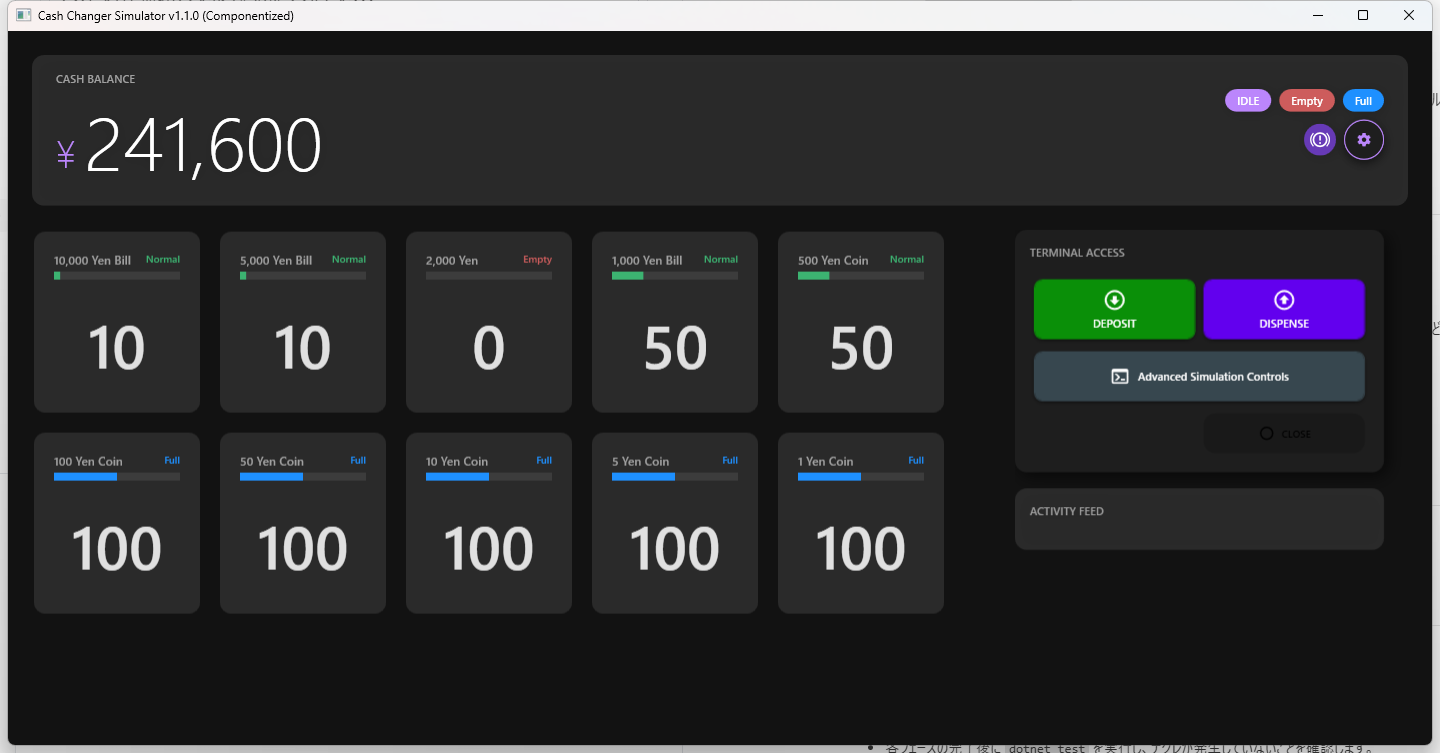
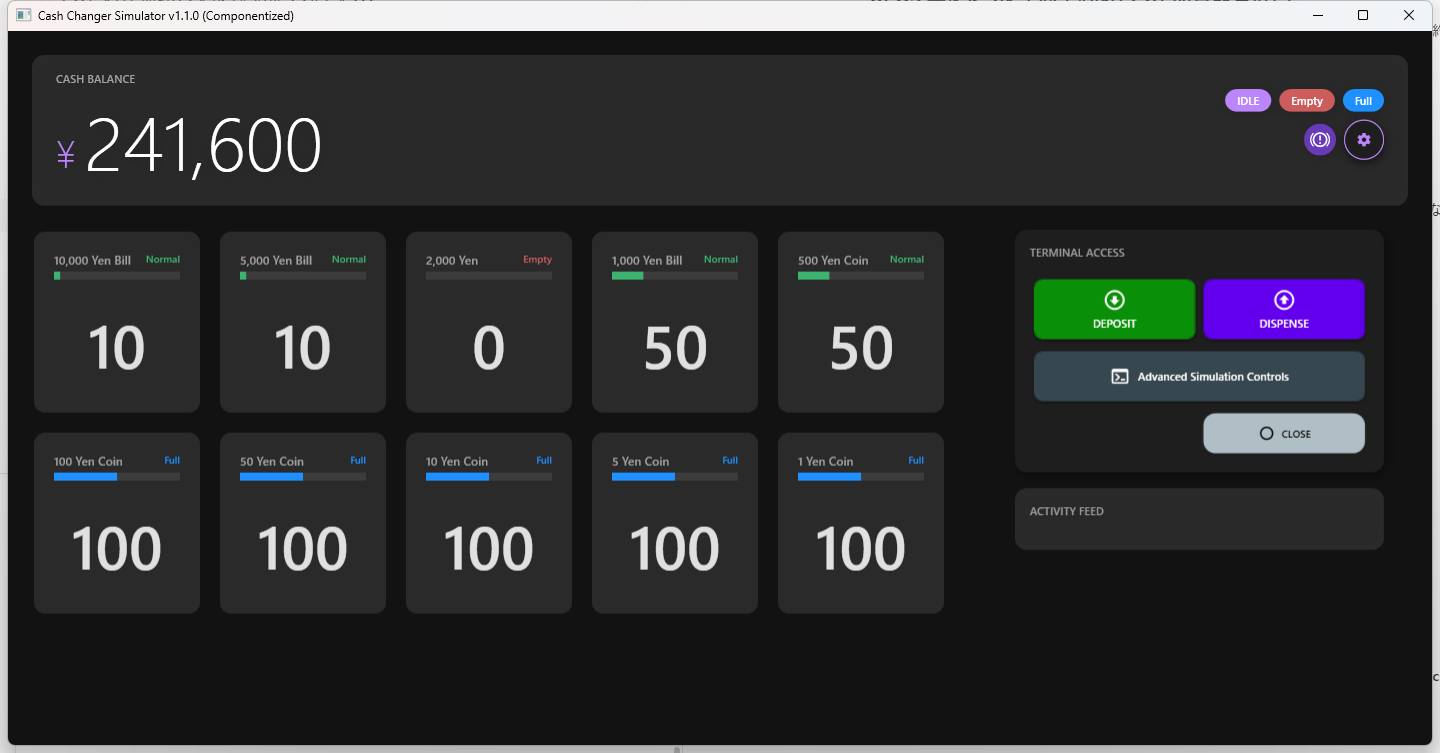
refactor(ui-tests): migrate UI tests to Shouldly and update documentation assets
- Replace Assert with Shouldly in UI test specifications

- Add missing XML documentation to UI testing classes

- Update main dashboard UI screenshot generated by tests

Changed region(s): [[0.8125, 0.5498, 0.9688, 0.6109], [0.625, 0.9774, 0.9375, 1.0]]

diff --git a/test/CashChangerSimulator.UI.Tests/DepositModeViewModelTest.cs b/test/CashChangerSimulator.UI.Tests/DepositModeViewModelTest.cs
@@ -9,6 +9,7 @@ using CashChangerSimulator.UI.Wpf.ViewModels;
 using Microsoft.PointOfService;
 using Moq;
 using R3;
+using Shouldly;
 
 namespace CashChangerSimulator.UI.Tests;
 
@@ -79,19 +80,19 @@ public class DepositModeViewModelTest
         _depositController.BeginDeposit();
 
         // Assert: Running
-        Assert.True(denVm.IsAcceptingCash.CurrentValue);
+        denVm.IsAcceptingCash.CurrentValue.ShouldBeTrue();
 
         // Act: Pause
         _depositController.PauseDeposit(CashDepositPause.Pause);
 
         // Assert: Paused
-        Assert.False(denVm.IsAcceptingCash.CurrentValue);
+        denVm.IsAcceptingCash.CurrentValue.ShouldBeFalse();
 
         // Act: Resume
         _depositController.PauseDeposit(CashDepositPause.Restart);
 
         // Assert: Running again
-        Assert.True(denVm.IsAcceptingCash.CurrentValue);
+        denVm.IsAcceptingCash.CurrentValue.ShouldBeTrue();
     }
 
     /// <summary>MainViewModel の CurrentModeName が状態遷移を正しく反映することを検証します。</summary>
@@ -102,26 +103,26 @@ public class DepositModeViewModelTest
     public void MainViewModelCurrentModeNameShouldReflectTransitions()
     {
         // Initial
-        Assert.Contains("IDLE", _mainViewModel.Deposit.CurrentModeName.CurrentValue);
+        _mainViewModel.Deposit.CurrentModeName.CurrentValue.ShouldContain("IDLE");
 
         // Start
         _depositController.BeginDeposit();
-        Assert.Contains("COUNTING", _mainViewModel.Deposit.CurrentModeName.CurrentValue);
+        _mainViewModel.Deposit.CurrentModeName.CurrentValue.ShouldContain("COUNTING");
 
         // Pause
         _mainViewModel.Deposit.PauseDepositCommand.Execute(Unit.Default);
-        Assert.Contains("PAUSED", _mainViewModel.Deposit.CurrentModeName.CurrentValue);
+        _mainViewModel.Deposit.CurrentModeName.CurrentValue.ShouldContain("PAUSED");
 
         // Resume
         _mainViewModel.Deposit.ResumeDepositCommand.Execute(Unit.Default);
-        Assert.Contains("COUNTING", _mainViewModel.Deposit.CurrentModeName.CurrentValue);
+        _mainViewModel.Deposit.CurrentModeName.CurrentValue.ShouldContain("COUNTING");
 
         // Fix
         _mainViewModel.Deposit.FixDepositCommand.Execute(Unit.Default);
-        Assert.Contains("FIXED", _mainViewModel.Deposit.CurrentModeName.CurrentValue);
+        _mainViewModel.Deposit.CurrentModeName.CurrentValue.ShouldContain("FIXED");
 
         // End
         _mainViewModel.Deposit.StoreDepositCommand.Execute(Unit.Default);
-        Assert.Contains("IDLE", _mainViewModel.Deposit.CurrentModeName.CurrentValue);
+        _mainViewModel.Deposit.CurrentModeName.CurrentValue.ShouldContain("IDLE");
     }
 }

diff --git a/test/CashChangerSimulator.UI.Tests/Specs/SmokeTest.cs b/test/CashChangerSimulator.UI.Tests/Specs/SmokeTest.cs
@@ -1,3 +1,5 @@
+using Shouldly;
+
 namespace CashChangerSimulator.UI.Tests.Specs;
 
 /// <summary>アプリケーションの起動と基本表示を検証するスモークテスト。</summary>
@@ -17,8 +19,8 @@ public class SmokeTest : IDisposable
     public void ShouldHaveCorrectTitle()
     {
         var window = _app.MainWindow;
-        Assert.NotNull(window);
-        Assert.Equal("Cash Changer Simulator v1.1.0 (Componentized)", window.Title);
+        window.ShouldNotBeNull();
+        window.Title.ShouldBe("Cash Changer Simulator v1.1.0 (Componentized)");
     }
 
     /// <summary>合計金額のラベルが表示されていることを検証する。</summary>
@@ -26,7 +28,7 @@ public class SmokeTest : IDisposable
     public void TotalAmountShouldBeVisible()
     {
         var totalAmountLabel = _app.MainWindow!.FindFirstDescendant(cf => cf.ByText("CASH BALANCE"));
-        Assert.NotNull(totalAmountLabel);
+        totalAmountLabel.ShouldNotBeNull();
     }
 
     /// <inheritdoc/>

diff --git a/test/CashChangerSimulator.UI.Tests/PosTransactionViewModelTest.cs b/test/CashChangerSimulator.UI.Tests/PosTransactionViewModelTest.cs
@@ -7,6 +7,7 @@ using Shouldly;
 
 namespace CashChangerSimulator.UI.Tests;
 
+/// <summary>POSトランザクションViewModelの動作を検証するテストクラス。</summary>
 public class PosTransactionViewModelTest(PosTransactionViewModelFixture fixture) : IClassFixture<PosTransactionViewModelFixture>
 {
     private readonly PosTransactionViewModelFixture _fixture = fixture;
@@ -47,6 +48,7 @@ public class PosTransactionViewModelTest(PosTransactionViewModelFixture fixture)
             notifyService);
     }
 
+    /// <summary>初期化時にトランザクションステータスが Idle になることを検証します。</summary>
     [Fact]
     public void ConstructorShouldInitializeCorrectly()
     {

diff --git a/test/CashChangerSimulator.UI.Tests/Documentation/DocumentationScreenshotGenerator.cs b/test/CashChangerSimulator.UI.Tests/Documentation/DocumentationScreenshotGenerator.cs
@@ -2,6 +2,7 @@ using FlaUI.Core.AutomationElements;
 using FlaUI.Core.Capturing;
 using FlaUI.Core.Tools;
 using System.IO;
+using Shouldly;
 
 namespace CashChangerSimulator.UI.Tests.Documentation;
 
@@ -35,7 +36,7 @@ public class DocumentationScreenshotGenerator : IDisposable
     {
         // 1. メインダッシュボードのキャプチャ
         Thread.Sleep(3000);
-        Assert.NotNull(_app.MainWindow);
+        _app.MainWindow.ShouldNotBeNull();
         CaptureElement(_app.MainWindow, "main_dashboard.png");
 
         // 2. 入金画面のキャプチャ

diff --git a/test/CashChangerSimulator.UI.Tests/Specs/DebugDumpTest.cs b/test/CashChangerSimulator.UI.Tests/Specs/DebugDumpTest.cs
@@ -60,7 +60,7 @@ public class DebugDumpTest : IDisposable
 
         var outPath = Path.Combine(Path.GetTempPath(), "ui_dump_full.txt");
         File.WriteAllLines(outPath, lines);
-        Assert.True(File.Exists(outPath));
+        File.Exists(outPath).ShouldBeTrue();
     }
 
     /// <inheritdoc/>
